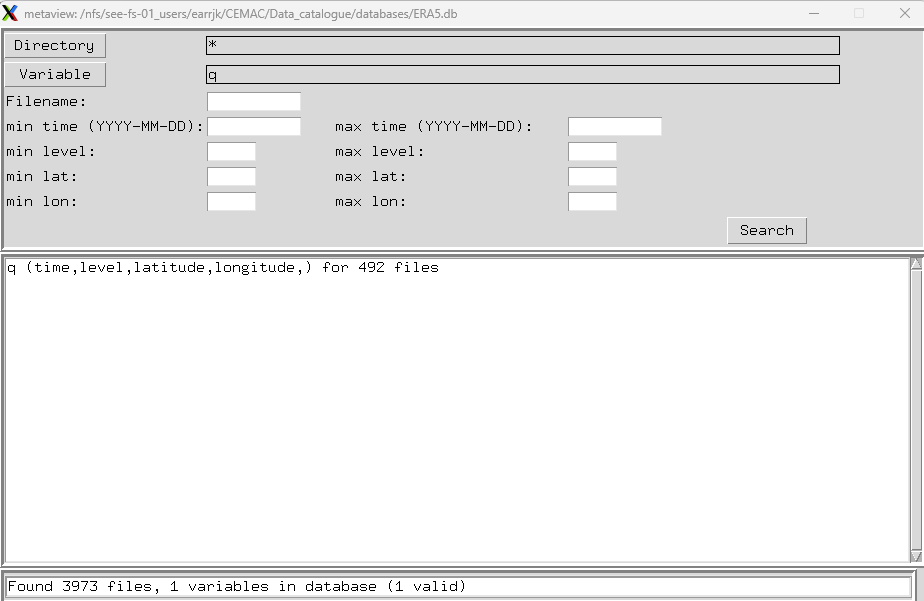
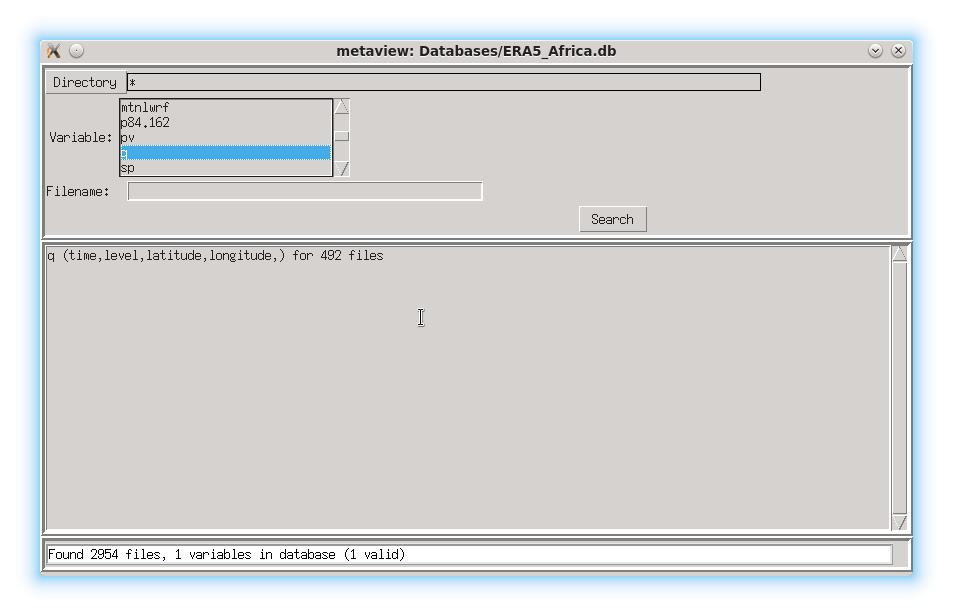
update documentation and remove pdb.set_trace() from metaview.py

diff --git a/metaview.py b/metaview.py
@@ -289,11 +289,9 @@ def set_variable(v):
 
     if len(v)==0:
         print('set_variable(): invalid size of variable index', v)
-        pdb.set_trace()
         return
     if v[0]>len(unique_varnames):
         print('set_variable(): variable index chosen is too big', v)
-        pdb.set_trace()
         return
     variable=unique_varnames[v[0]]
     if current_var!=variable:
@@ -739,6 +737,8 @@ nfilters=len(coord_filters)
 # read the database(s)
 wsplit=dbname_or_dir.split('.')
 if wsplit[-1]=='db':
+    if os.path.exists(dbname_or_dir)==False:
+        raise ValueError('No such database '+dbname_or_dir)
     databases.append(Database_reader(dbname_or_dir,verbose))
     unique_dirnames=unique_dirnames+databases[-1].dirpaths
     unique_varnames=unique_varnames+databases[-1].unique_varnames
@@ -750,7 +750,9 @@ else:
                 databases.append(Database_reader(dirpath+'/'+filename,verbose))
                 unique_dirnames=unique_dirnames+databases[-1].dirpaths
                 unique_varnames=unique_varnames+databases[-1].unique_varnames
-
+    if len(databases)==0:
+        raise ValueError('No databases found in '+dbname_or_dir)
+    
 dir_struct=Directory(0, unique_dirnames)
 
 unique_varnames=['*']+list(np.unique(np.asarray(unique_varnames)))
@@ -775,7 +777,7 @@ results_frame.pack(fill=BOTH)
 status_frame = Frame(master=root,relief=RIDGE, borderwidth=5)
 status_frame.pack(fill=BOTH)
 # status bar
-status_bar = Label(master=status_frame, width=100, font=font, fg='black', bg='white',anchor='w',borderwidth=3, relief="ridge")
+status_bar = Label(master=status_frame, width=120, font=font, fg='black', bg='white',anchor='w',borderwidth=3, relief="ridge")
 status_bar.grid(row=0, column=0, sticky='W', pady=2)
 
 #-------------------------------------------------------------------------------------
@@ -808,21 +810,13 @@ ys = Scrollbar(var_frame, orient = 'vertical', command = variable_menu.yview)
 variable_menu.configure(yscrollcommand=ys.set)
 ys.pack(side=RIGHT, fill=Y)
 var_frame.grid(row=1, column=0, sticky='W', pady=2, columnspan=5)
-#variable_mb = Menubutton(setup_frame, text ="Variable",relief=RAISED, width=10, font=font)
-#variable_mb.menu=Menu ( variable_mb, tearoff = 0 )
-#for v in range(len(unique_varnames)):
-#    variable_mb.menu.add_command(label=unique_varnames[v], command=lambda v=v: set_variable(v), font=font)
-#variable_mb.grid(row=1,column=0, sticky='W', pady=2)
-# the label to show what variable has been chosen
-#variable_lab = Label(master=setup_frame, text=unique_varnames[0],width=70,borderwidth=1,anchor='w', relief="solid", font=font)
-#variable_lab.grid(row=1, column=1, sticky='W', pady=2, columnspan=5)
 
 # selecting filename - free form so handles regular expressions
 vcmd_filename = (setup_frame.register(set_filename), '%d')
 filename_lab = Label(master=setup_frame, text='Filename:', anchor='w', font=font)
 filename_lab.grid(row=5, column=0, sticky='W', pady=2)
 filename_entry = Entry(master=setup_frame, width=50, font=font, validate="key", validatecommand=vcmd_filename)
-filename_entry.grid(row=5, column=1, sticky='W', pady=2)
+filename_entry.grid(row=5, column=1, sticky='W', pady=2, columnspan=5)
 #filename_entry.insert(0,'*')
 
 
@@ -861,10 +855,10 @@ for i in range(nfilters):
     
 # search button to kick off search
 searchB = Button(setup_frame, text ="Search", command = search_db, font=font)
-searchB.grid(row=row+1,column=5, sticky='W',pady=2)
+searchB.grid(row=row,column=5, sticky='W',pady=2)
 
 # widget to display results
-results = Text(results_frame, state='disabled', height=20, width=100, font=font)
+results = Text(results_frame, state='disabled', height=20, width=120, font=font)
 ys = Scrollbar(results_frame, orient = 'vertical', command = results.yview)
 results['yscrollcommand'] = ys.set
 ys.pack(side=RIGHT,fill=Y)
@@ -874,7 +868,7 @@ results.pack()
 # kick it all off
 setup_frame.pack()
 results_frame.pack()
-status_frame.pack(side="left")
+status_frame.pack()
 
 root.mainloop()
 
